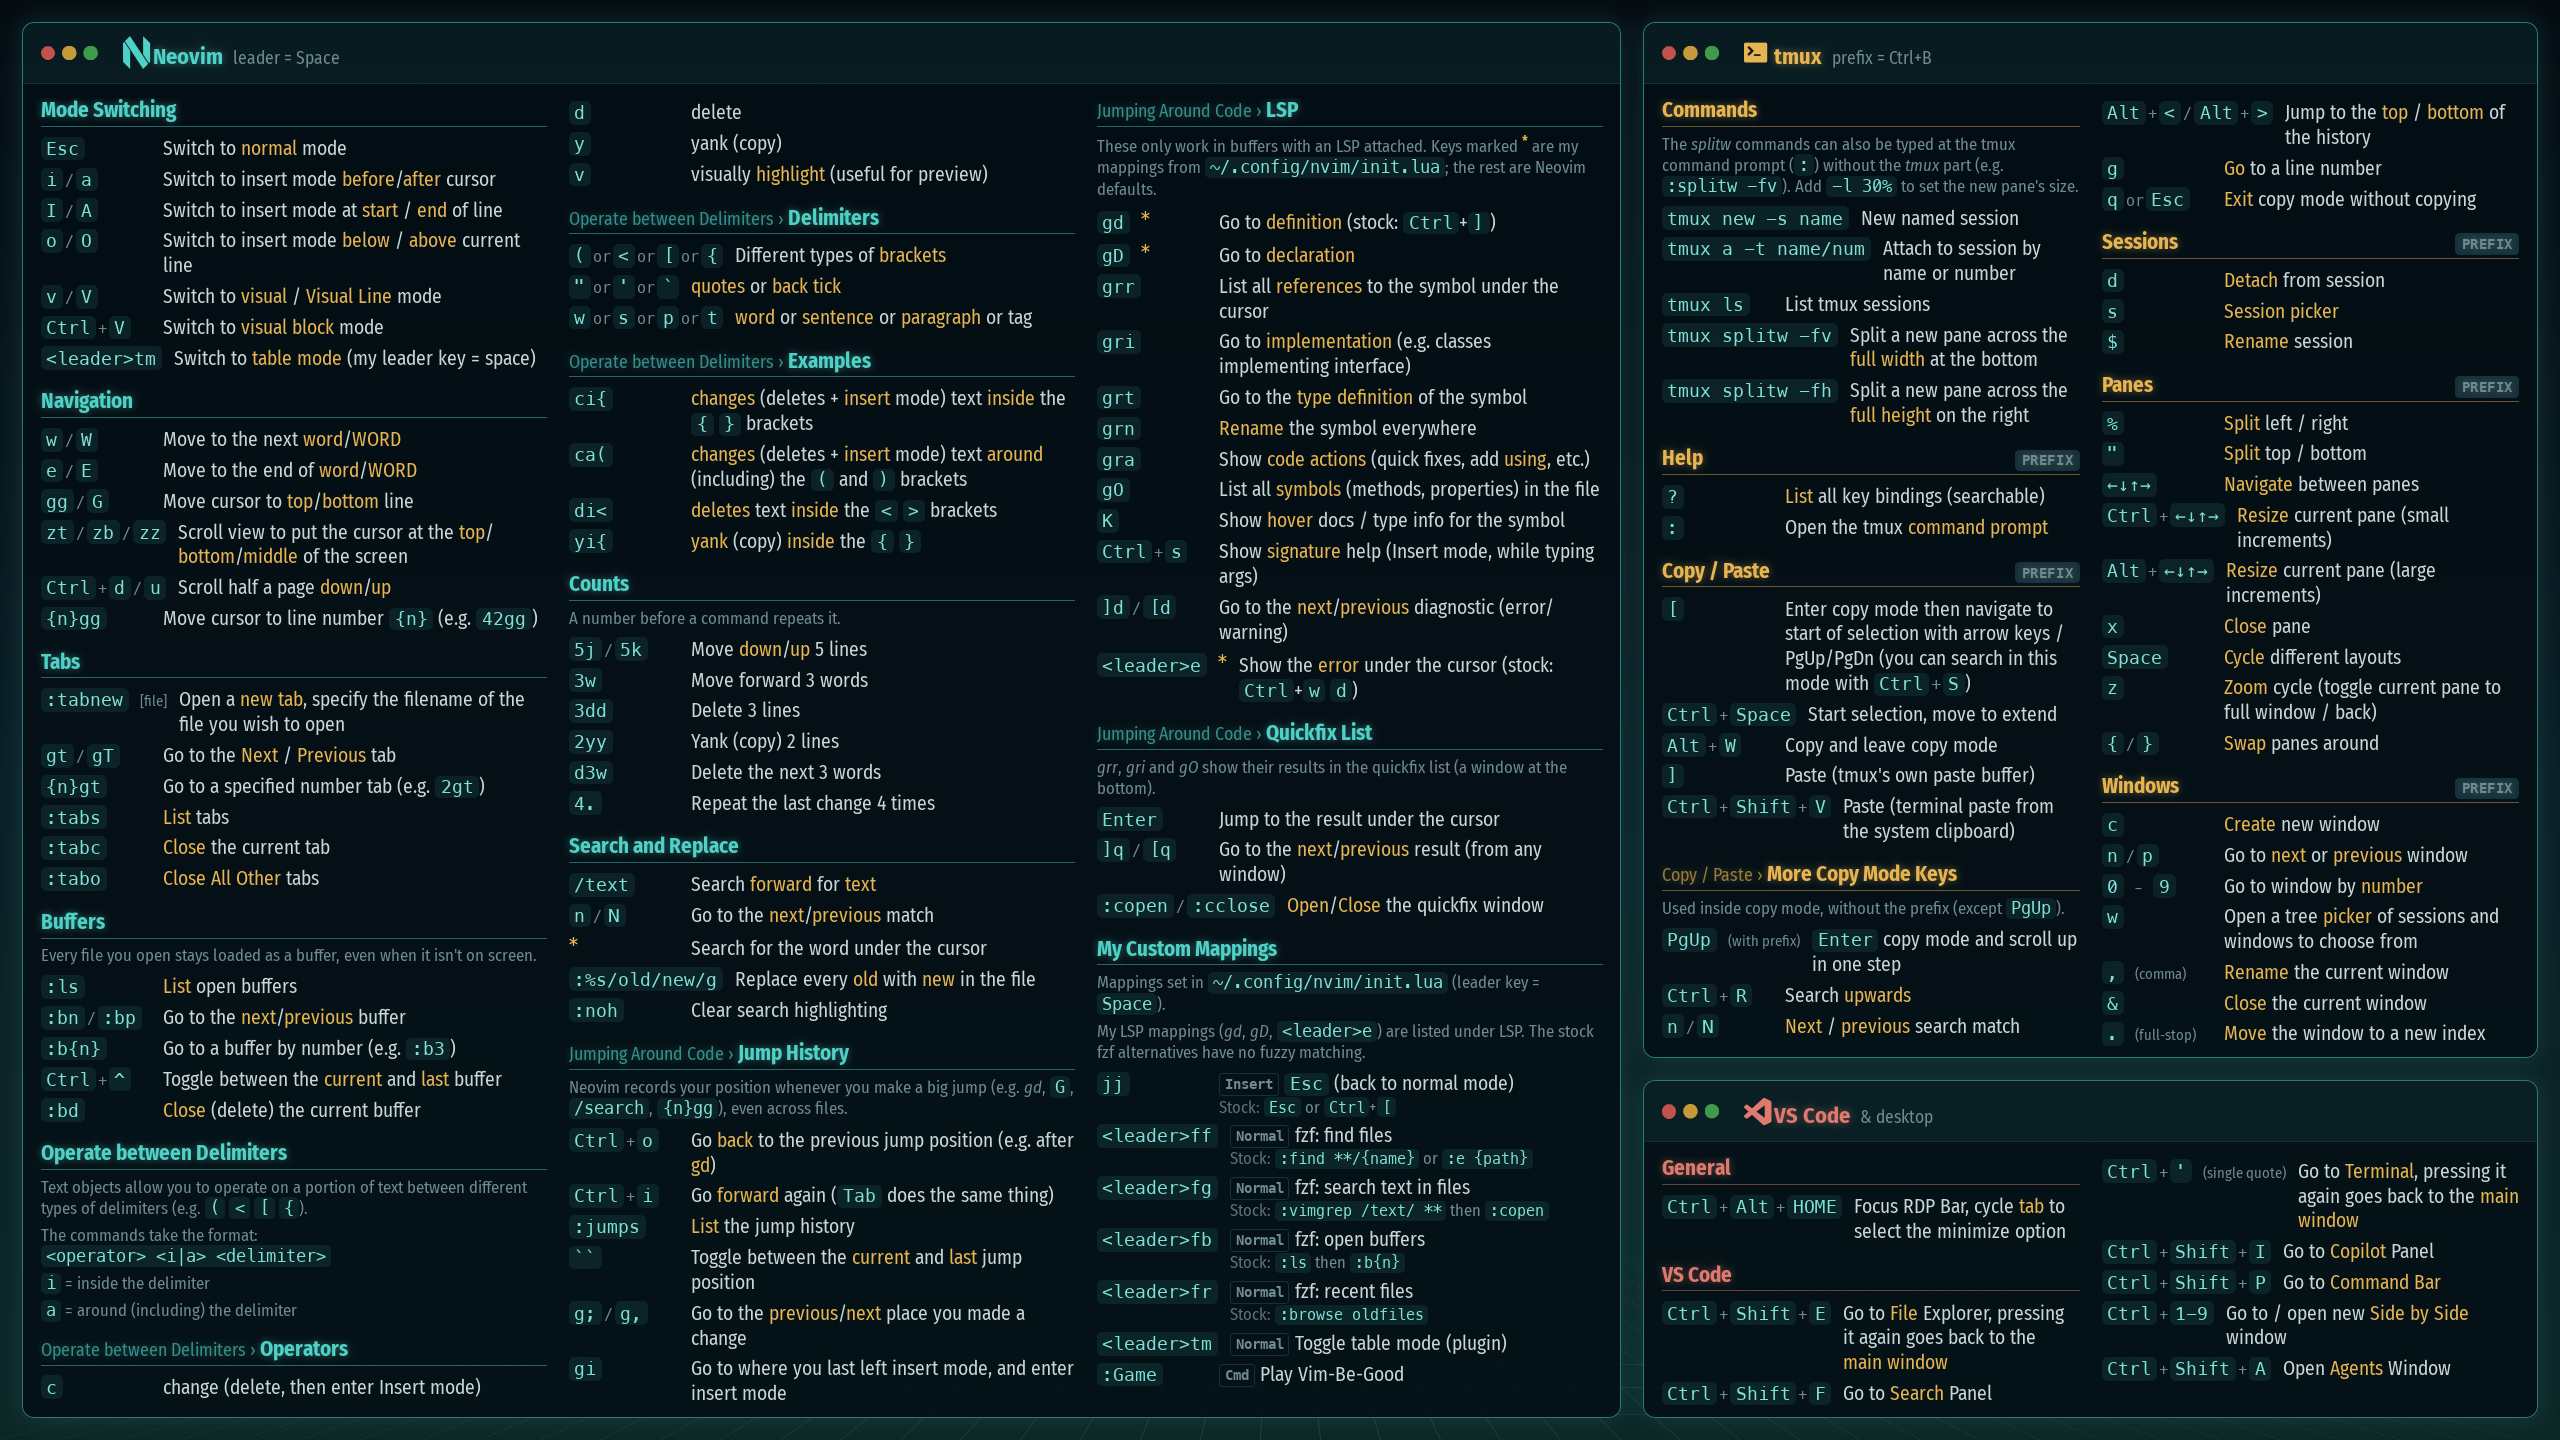
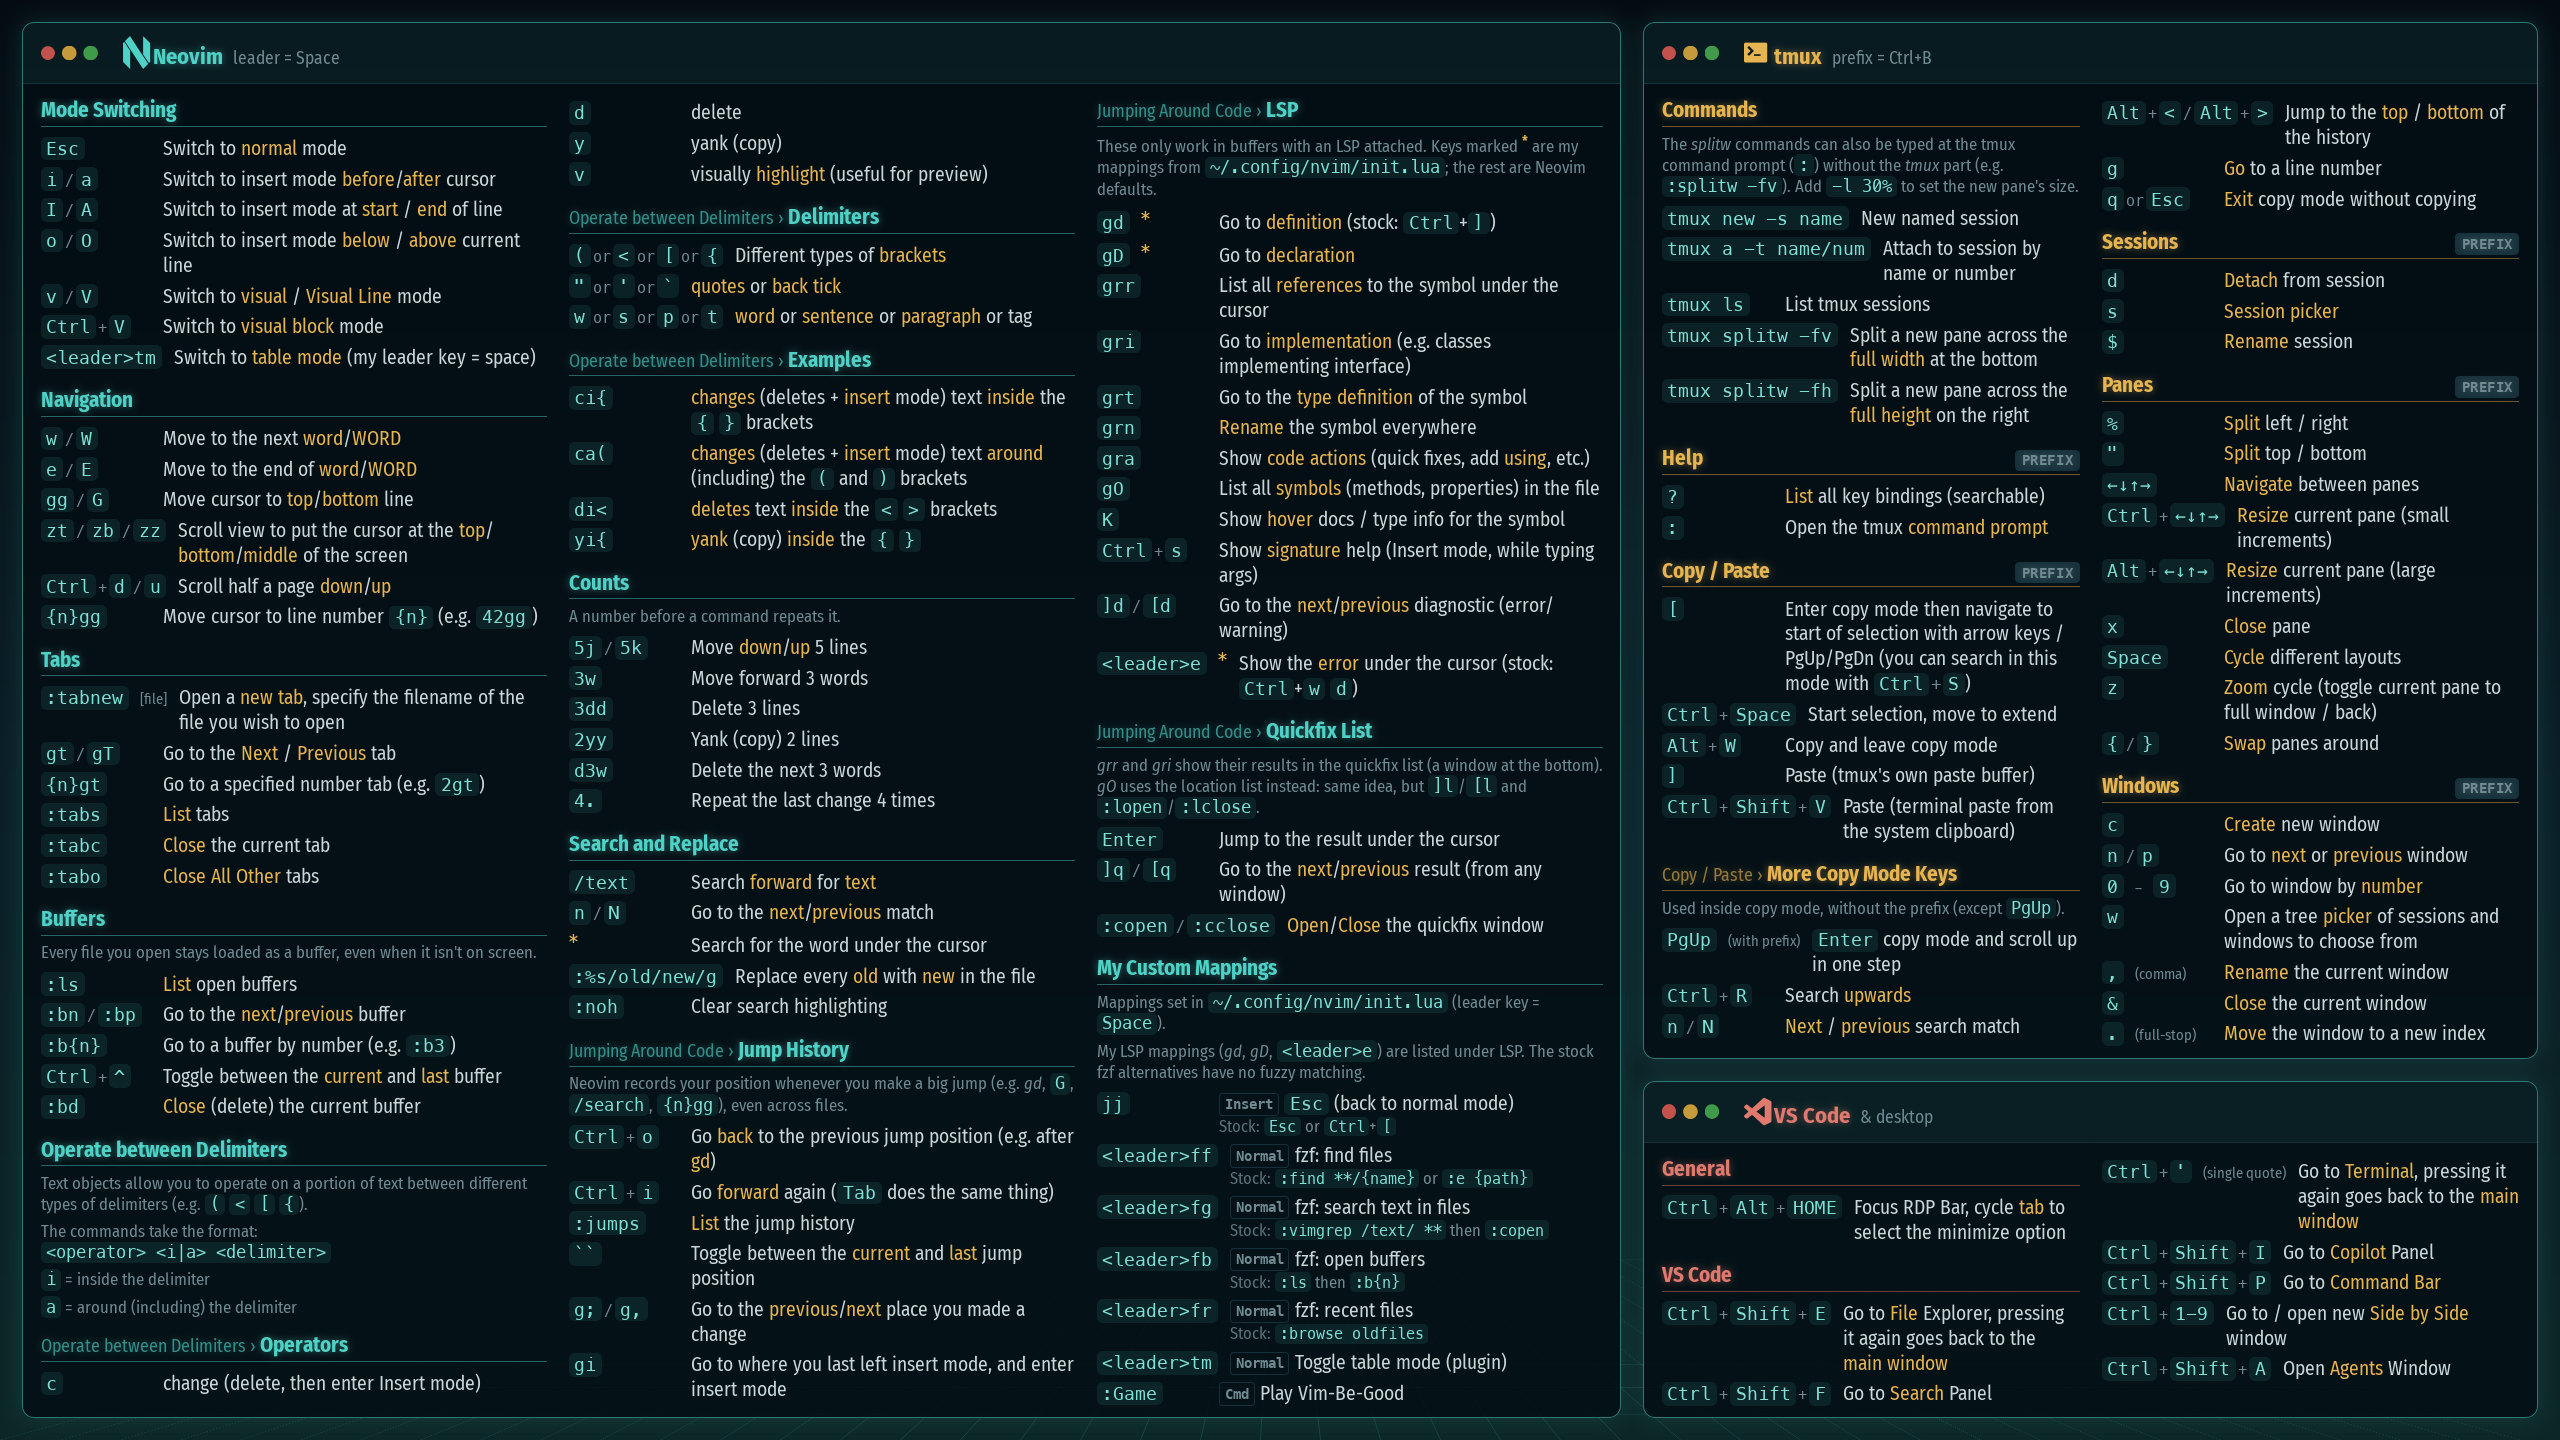
Fix VS Code typos at the source, clarify gO and missing-Firefox behaviour, regenerate wallpaper (#1)
- Correct VS Code typos in VSCode.md and drop the wallpaper-only FIXES patch in parse.py
- Clarify the gO quickfix note and the missing-Firefox error message
- Regenerate the wallpaper PNGs from the updated sheets

diff --git a/wallpaper/parse.py b/wallpaper/parse.py
@@ -12,7 +12,6 @@ TOOLS = [
 
 # tmux sections whose keys are typed after the prefix
 TMUX_PREFIXED = {"Help", "Copy / Paste", "Sessions", "Panes", "Windows"}
-FIXES = {"Copilt": "Copilot", "GoTo / OpenNew": "Go to / open new", "GoTo ": "Go to "}
 KEYNAMES = {"Ctrl", "Alt", "Shift", "Esc", "Tab", "Enter", "Space", "PgUp", "PgDn", "Home", "HOME"}
 
 CODE_RE = re.compile(r"(`+)(.+?)\1")
@@ -63,18 +62,12 @@ def sep(s, key):
     return f' <span class="kx">{esc(s2)}</span> '
 
 
-def fix(s):
-    for a, b in FIXES.items():
-        s = s.replace(a, b)
-    return s
-
-
 def parse(path):
     sections, cur, parent, intro = [], None, None, []
     lines = Path(path).read_text().splitlines()
     i = 0
     while i < len(lines):
-        line = fix(lines[i].rstrip())
+        line = lines[i].rstrip()
         i += 1
         if line.startswith("# "):
             continue
@@ -90,7 +83,7 @@ def parse(path):
             header = [c.strip() for c in line.strip().strip("|").split("|")]
             i += 1  # separator
             while i < len(lines) and lines[i].startswith("|"):
-                cells = [c.strip() for c in fix(lines[i]).strip().strip("|").split("|")]
+                cells = [c.strip() for c in lines[i].strip().strip("|").split("|")]
                 i += 1
                 row = {"k": inline(cells[0], key=True), "d": "", "badge": "", "meta": []}
                 main_done = False

diff --git a/wallpaper/build.py b/wallpaper/build.py
@@ -6,6 +6,7 @@ Writes cheatsheet-wallpaper.png (2560x1440) and cheatsheet-wallpaper@2x.png (512
 Needs Firefox (headless screenshots) and the Fira Sans Condensed, MesloLGS Nerd Font fonts.
 """
 import json
+import shutil
 import subprocess
 import sys
 import tempfile
@@ -119,6 +120,8 @@ def render(html_path, png_path, scale):
 
 
 def main():
+    if not shutil.which("firefox"):
+        sys.exit("build.py: firefox not found on PATH; it is needed to render the wallpaper")
     out = Path(sys.argv[1]).expanduser().resolve() if len(sys.argv) > 1 else HERE
     out.mkdir(parents=True, exist_ok=True)
     html = build_html(load(HERE.parent))

diff --git a/VSCode.md b/VSCode.md
@@ -1,17 +1,17 @@
 # Shortcut Cheat Sheet
 
-## General 
+## General
 | Command                           | Description                                                               |
 |-----------------------------------|---------------------------------------------------------------------------|
-|`Ctrl`+`Alt`+`HOME`                | Focus RDP Bar, cycle `tab` to select the minimize option                  |
+| `Ctrl`+`Alt`+`HOME`               | Focus RDP Bar, cycle `tab` to select the minimize option                  |
 
 ## VS Code
 | Command                           | Description                                                               |
 |-----------------------------------|---------------------------------------------------------------------------|
-| `Ctrl`+`Shift`+`E`                | GoTo `File` Explorer, pressing it again goes back to the `main window`    |
-| `Ctrl`+`Shift`+`F`                | GoTo `Search` Panel                                                       |
-| `Ctrl`+`'` (single quote)         | GoTo `Terminal`, pressing it again goes back to the `main window`         |
-| `Ctrl`+`Shift`+`I`                | GoTo `Copilt` Panel                                                       |
-| `Ctrl`+`Shift`+`P`                | GoTo `Command Bar`                                                        |
-| `Ctrl`+`1-9`                      | GoTo / OpenNew `Side by Side` window                                      |
+| `Ctrl`+`Shift`+`E`                | Go to `File` Explorer, pressing it again goes back to the `main window`   |
+| `Ctrl`+`Shift`+`F`                | Go to `Search` Panel                                                      |
+| `Ctrl`+`'` (single quote)         | Go to `Terminal`, pressing it again goes back to the `main window`        |
+| `Ctrl`+`Shift`+`I`                | Go to `Copilot` Panel                                                     |
+| `Ctrl`+`Shift`+`P`                | Go to `Command Bar`                                                       |
+| `Ctrl`+`1-9`                      | Go to / open new `Side by Side` window                                    |
 | `Ctrl`+`Shift`+`A`                | Open `Agents` Window                                                      |

diff --git a/NeoVim.md b/NeoVim.md
@@ -127,7 +127,7 @@ These only work in buffers with an LSP attached. Keys marked `*` are my mappings
 | `<leader>e` `*`      | Show the `error` under the cursor (stock: `Ctrl`+`w` `d`)    |
 
 ### Quickfix List
-`grr`, `gri` and `gO` show their results in the quickfix list (a window at the bottom).
+`grr` and `gri` show their results in the quickfix list (a window at the bottom). `gO` uses the location list instead: same idea, but `]l`/`[l` and `:lopen`/`:lclose`.
 
 | Key                | Action                                                 |
 |--------------------|--------------------------------------------------------|

diff --git a/README.md b/README.md
@@ -37,6 +37,6 @@ Requirements:
   badge, and any further columns become a grey second line (e.g. "Stock: …").
 - Text in backticks: plain words (`` `normal` ``) are highlighted, anything else (`` `Ctrl`+`V` ``, `` `:noh` ``) is shown as a key.
 - Paragraphs shaped like `` `key` to do something `` become rows; other paragraphs become notes.
-- tmux sections listed in `TMUX_PREFIXED` get a PREFIX tag; `FIXES` corrects typos on the wallpaper only.
+- tmux sections listed in `TMUX_PREFIXED` get a PREFIX tag.
 
 Colours live in `THEME` at the top of `wallpaper/build.py`.
